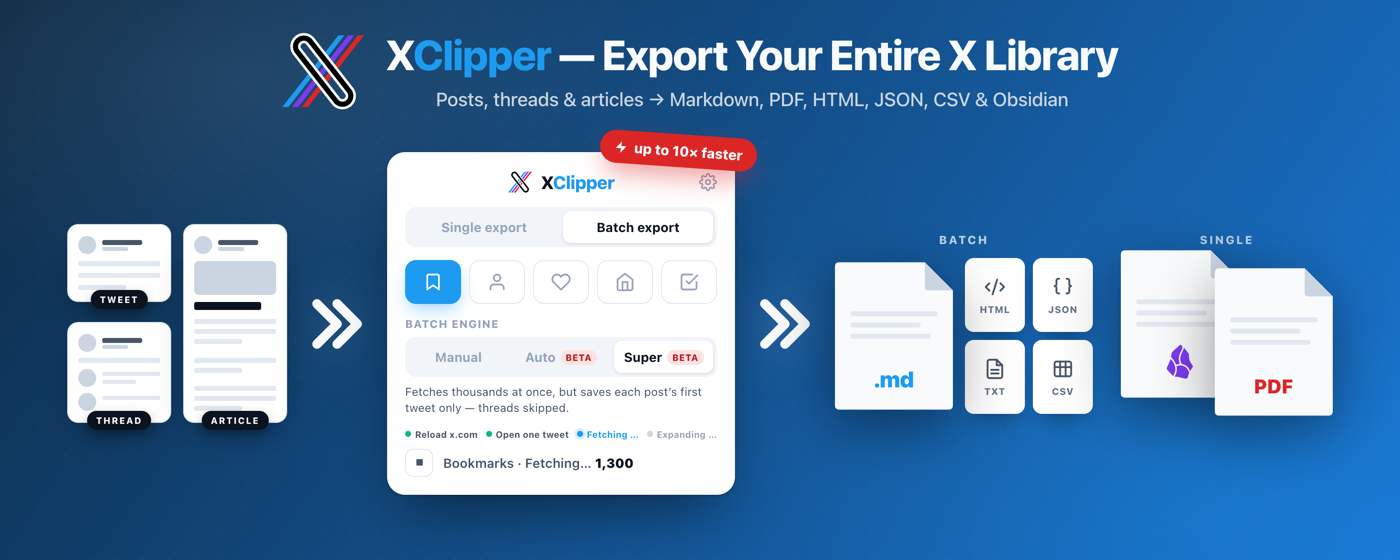
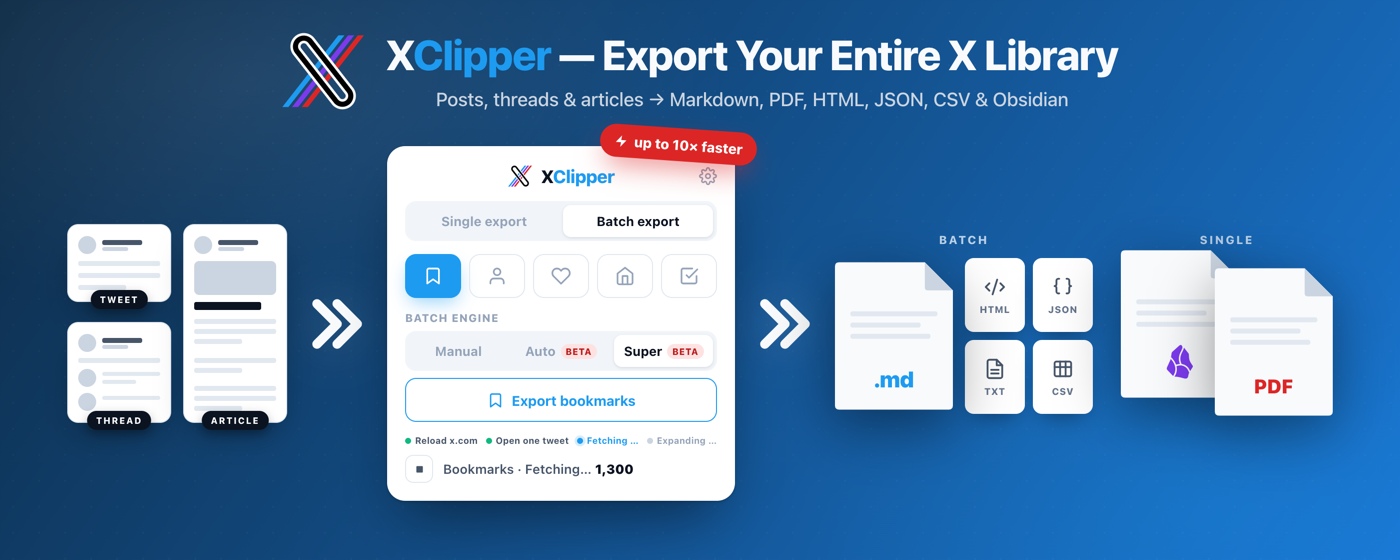
fix(promo): swap the engine caption for the Export bookmarks CTA

diff --git a/store/mockups/promo.html b/store/mockups/promo.html
@@ -128,7 +128,13 @@
   .mqp-mode .opt{ flex: 1; display: flex; align-items: center; justify-content: center; gap: 5px; font-size: 13px; font-weight: 700; color: #94a3b8; padding: 8px 0; border-radius: 8px; }
   .mqp-mode .opt.active{ background: #ffffff; color: #0b1220; box-shadow: 0 1px 3px rgba(15,23,42,.12); }
   .mqp-mode .beta{ font-size: 9px; font-weight: 800; color: #b91c1c; background: #fee2e2; border-radius: 999px; padding: 2px 5px; letter-spacing: .04em; text-transform: uppercase; }
-  .mqp-mode-caption{ font-size: 11.5px; color: #475569; line-height: 1.35; }
+  /* Mirrors the popup's outlined .btn-primary — the batch CTA. */
+  .mqp-cta{
+    display: flex; align-items: center; justify-content: center; gap: 8px;
+    height: 44px; border: 1px solid var(--brand-blue); border-radius: 11px;
+    color: var(--brand-blue); font-size: 14px; font-weight: 700; letter-spacing: -.01em;
+  }
+  .mqp-cta svg{ width: 17px; height: 17px; fill: none; stroke: currentColor; stroke-width: 2; stroke-linecap: round; stroke-linejoin: round; }
 
   .mqp-prog{ display: flex; flex-direction: column; gap: 9px; }
   .mqp-prow{ display: flex; align-items: center; gap: 10px; }
@@ -366,7 +372,10 @@
             <div class="opt">Auto<span class="beta">Beta</span></div>
             <div class="opt active">Super<span class="beta">Beta</span></div>
           </div>
-          <div class="mqp-mode-caption">Fetches thousands at once, but saves each post&rsquo;s first tweet only &mdash; threads skipped.</div>
+          <div class="mqp-cta">
+            <svg viewBox="0 0 24 24"><path d="M19 21l-7-5-7 5V5a2 2 0 0 1 2-2h10a2 2 0 0 1 2 2z"/></svg>
+            Export bookmarks
+          </div>
         </div>
 
         <!-- Super running: Stop but no Pause, and no determinate bar -
